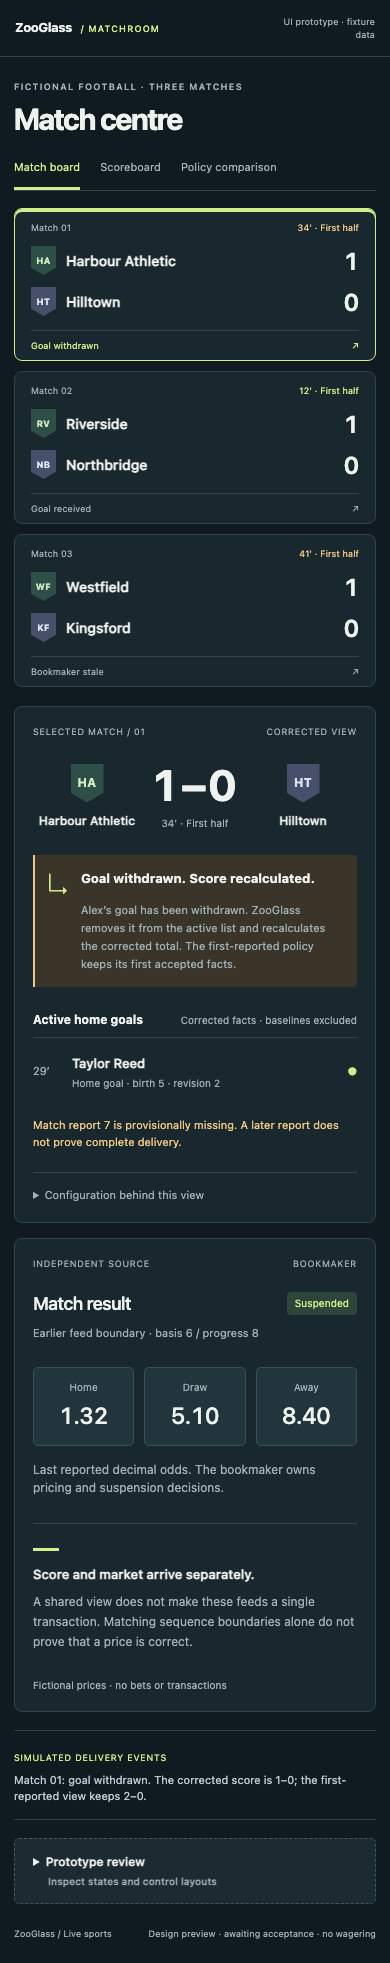
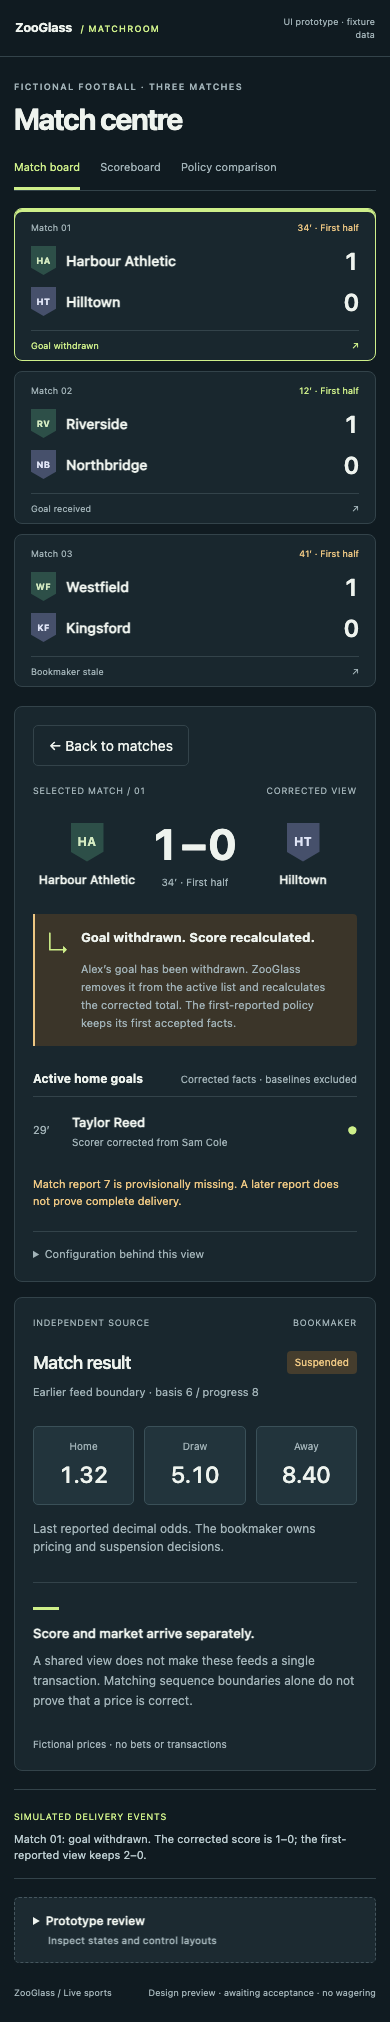
Improve Sports prototype responsive layout and navigation

diff --git a/demos/live-sports/prototype/app.js b/demos/live-sports/prototype/app.js
@@ -46,18 +46,19 @@ function renderMatches() {
 function renderDetail() {
   const data = fixtures[selected.fixture];
   byId("match-detail").innerHTML =
-    `<div class="section-label"><span>Selected match / ${selected.id}</span><span>${disconnected ? "Saved snapshot" : "Corrected view"}</span></div><div class="featured-score"><div>${badge(selected.homeCode)}<h2>${selected.home}</h2></div><div class="score"><strong>${data.score}</strong><span>${data.clock} · ${data.phase}</span></div><div>${badge(selected.awayCode, true)}<h2>${selected.away}</h2></div></div><div class="event-callout ${data.tone}"><span class="callout-marker" aria-hidden="true">↳</span><div><h3>${data.headline}</h3><p>${data.explanation}</p></div></div><div class="goals-heading"><h3>Active home goals</h3><span>Corrected facts · baselines excluded</span></div><ul class="goals">${goalsMarkup(data.goals)}</ul>${data.gap ? `<p class="gap-note">${data.gap} A later report does not prove complete delivery.</p>` : ""}<details class="rules"><summary>Configuration behind this view</summary><dl><dt>Goal list</dt><dd>activeFacts · latestFactRevision</dd><dt>Score</dt><dd>sumActiveFacts · points</dd><dt>Initial score</dt><dd>Both baselines in the matching retained window</dd><dt>View</dt><dd>match-market / match-${Number(selected.id)}</dd></dl><p>Illustrative snapshots only. The UI displays supplied totals; it does not recalculate them.</p></details>`;
+    `<button class="back-to-matches" data-back-to-matches>← Back to matches</button><div class="section-label"><span>Selected match / ${selected.id}</span><span>${disconnected ? "Saved snapshot" : "Corrected view"}</span></div><div class="featured-score"><div>${badge(selected.homeCode)}<h2>${selected.home}</h2></div><div class="score"><strong>${data.score}</strong><span>${data.clock} · ${data.phase}</span></div><div>${badge(selected.awayCode, true)}<h2>${selected.away}</h2></div></div><div class="event-callout ${data.tone}"><span class="callout-marker" aria-hidden="true">↳</span><div><h3>${data.headline}</h3><p>${data.explanation}</p></div></div><div class="goals-heading"><h3>Active home goals</h3><span>Corrected facts · baselines excluded</span></div><ul class="goals">${goalsMarkup(data.goals)}</ul>${data.gap ? `<p class="gap-note">${data.gap} A later report does not prove complete delivery.</p>` : ""}<details class="rules"><summary>Configuration behind this view</summary><dl><dt>Goal list</dt><dd>activeFacts · latestFactRevision</dd><dt>Score</dt><dd>sumActiveFacts · points</dd><dt>Initial score</dt><dd>Both baselines in the matching retained window</dd><dt>View</dt><dd>match-market / match-${Number(selected.id)}</dd></dl>${data.goals.length ? `<h3>Goal publication details</h3><ul>${data.goals.map((goal) => `<li>${goal.scorer}: birth ${goal.birth} · revision ${goal.revision}</li>`).join("")}</ul>` : ""}<p>Illustrative snapshots only. The UI displays supplied totals; it does not recalculate them.</p></details>`;
   byId("market").innerHTML =
-    `<div class="section-label"><span>Independent source</span><span>Bookmaker</span></div><div class="market-title"><h2>Match result</h2><span class="market-state ${data.stale || disconnected ? "stale" : ""}">${disconnected ? "Saved" : data.stale ? "Stale" : data.market}</span></div><p class="market-basis">${data.basis}</p><div class="odds">${["Home", "Draw", "Away"].map((name, index) => `<div><span>${name}</span><strong>${data.odds[index]}</strong></div>`).join("")}</div><p class="market-description">${data.stale ? "Last reported status: open, 42 seconds ago. Silence does not confirm current prices." : data.market === "Awaiting new cycle" ? "Prior-cycle values are withheld from this new-cycle market presentation." : "Last reported decimal odds. The bookmaker owns pricing and suspension decisions."}</p><div class="market-separation"><span class="mini-line"></span><h3>Score and market arrive separately.</h3><p>A shared view does not make these feeds a single transaction. Matching sequence boundaries alone do not prove that a price is correct.</p></div><p class="fictional">Fictional prices · no bets or transactions</p>`;
+    `<div class="section-label"><span>Independent source</span><span>Bookmaker</span></div><div class="market-title"><h2>Match result</h2><span class="market-state ${data.stale || disconnected ? "stale" : data.market === "Suspended" ? "suspended" : data.market === "Open" ? "" : "waiting"}">${disconnected ? "Saved" : data.stale ? "Stale" : data.market}</span></div><p class="market-basis">${data.basis}</p><div class="odds">${["Home", "Draw", "Away"].map((name, index) => `<div><span>${name}</span><strong>${data.odds[index]}</strong></div>`).join("")}</div><p class="market-description">${data.stale ? "Last reported status: open, 42 seconds ago. Silence does not confirm current prices." : data.market === "Awaiting new cycle" ? "Prior-cycle values are withheld from this new-cycle market presentation." : "Last reported decimal odds. The bookmaker owns pricing and suspension decisions."}</p><div class="market-separation"><span class="mini-line"></span><h3>Score and market arrive separately.</h3><p>A shared view does not make these feeds a single transaction. Matching sequence boundaries alone do not prove that a price is correct.</p></div><p class="fictional">Fictional prices · no bets or transactions</p>`;
 }
 
 function renderComparison() {
   const data = fixtures[selected.fixture];
   byId("comparison").innerHTML =
-    `<div class="comparison-heading"><p class="eyebrow">Same publications. Different configured policies.</p><h2>${selected.home} <span>vs</span> ${selected.away}</h2><p>These are separate views of match-${Number(selected.id)}. The first-reported view is a policy comparison, not the current corrected score.</p></div><div class="policy-grid"><article class="policy corrected"><span class="policy-label">Corrected view</span><strong class="policy-score">${data.score}</strong><code>latestFactRevision</code><p>Applies accepted revisions and withdrawals.</p><ul>${data.goals.length ? data.goals.map((goal) => `<li>${goal.scorer} · ${goal.minute}</li>`).join("") : "<li>No active goals in this window</li>"}</ul></article><article class="policy original"><span class="policy-label">First-reported view</span><strong class="policy-score">${data.original}</strong><code>firstFact</code><p>Retains the first accepted create for each fact.</p><ul>${data.originalGoals.length ? data.originalGoals.map((goal) => `<li>${goal}</li>`).join("") : "<li>No active goals in this window</li>"}</ul></article></div><p class="comparison-foot">${data.explanation}</p>${selected.fixture === "transition" ? '<p class="gap-note">Retained windows differ during this failed transition. Current scorelines are withheld; listed facts belong to each view’s own window.</p>' : ""}`;
+    `<button class="back-to-matches" data-back-to-matches>← Back to matches</button><div class="comparison-heading"><p class="eyebrow">Same publications. Different configured policies.</p><h2>${selected.home} <span>vs</span> ${selected.away}</h2><p>These are separate views of match-${Number(selected.id)}. The first-reported view is a policy comparison, not the current corrected score.</p></div><div class="policy-grid"><article class="policy corrected"><span class="policy-label">Corrected view</span><strong class="policy-score">${data.score}</strong><code>latestFactRevision</code><p>Applies accepted revisions and withdrawals.</p><ul>${data.goals.length ? data.goals.map((goal) => `<li>${goal.scorer} · ${goal.minute}</li>`).join("") : "<li>No active goals in this window</li>"}</ul></article><article class="policy original"><span class="policy-label">First-reported view</span><strong class="policy-score">${data.original}</strong><code>firstFact</code><p>Retains the first accepted create for each fact.</p><ul>${data.originalGoals.length ? data.originalGoals.map((goal) => `<li>${goal}</li>`).join("") : "<li>No active goals in this window</li>"}</ul></article></div><p class="comparison-foot">${data.explanation}</p>${selected.fixture === "transition" ? '<p class="gap-note">Retained windows differ during this failed transition. Current scorelines are withheld; listed facts belong to each view’s own window.</p>' : ""}`;
 }
 
 function render() {
+  const focusedMatch = document.activeElement?.dataset.match;
   renderMatches();
   renderDetail();
   renderComparison();
@@ -65,6 +66,18 @@ function render() {
   byId("scoreboard-note").hidden = view !== "scoreboard";
   byId("comparison").hidden = view !== "comparison";
   byId("connection").hidden = !disconnected;
+  for (const id of ["match-detail", "comparison"]) {
+    byId(id).tabIndex = -1;
+    byId(id).setAttribute(
+      "aria-label",
+      `${selected.home} versus ${selected.away} ${id === "comparison" ? "policy comparison" : "details"}`,
+    );
+  }
+  if (focusedMatch) {
+    byId("matches")
+      .querySelector(`[data-match="${focusedMatch}"]`)
+      ?.focus({ preventScroll: true });
+  }
   byId("fixture").value = disconnected ? "disconnected" : selected.fixture;
   document
     .querySelectorAll("[data-view]")
@@ -110,10 +123,16 @@ byId("matches").addEventListener("click", (event) => {
   selected = matches.find((match) => match.id === card.dataset.match);
   render();
   if (matchMedia("(max-width: 650px)").matches && view !== "scoreboard") {
-    byId(
-      view === "comparison" ? "comparison" : "match-detail",
-    ).scrollIntoView();
+    const detail = byId(view === "comparison" ? "comparison" : "match-detail");
+    detail.focus({ preventScroll: true });
+    detail.scrollIntoView();
   }
+});
+document.addEventListener("click", (event) => {
+  if (!event.target.closest("[data-back-to-matches]")) return;
+  const card = byId("matches").querySelector(`[data-match="${selected.id}"]`);
+  card.focus({ preventScroll: true });
+  card.scrollIntoView({ block: "center" });
 });
 document.querySelectorAll("[data-view]").forEach((button) =>
   button.addEventListener("click", () => {

diff --git a/demos/live-sports/prototype/fixtures.js b/demos/live-sports/prototype/fixtures.js
@@ -14,7 +14,9 @@ export const fixtures = {
       {
         minute: "12′",
         scorer: "Alex Vale",
-        detail: "Home goal · birth 4 · revision 1",
+        detail: "Home goal",
+        birth: 4,
+        revision: 1,
       },
     ],
     originalGoals: ["Alex Vale · 12′"],
@@ -38,12 +40,16 @@ export const fixtures = {
       {
         minute: "12′",
         scorer: "Alex Vale",
-        detail: "Home goal · birth 4 · revision 1",
+        detail: "Home goal",
+        birth: 4,
+        revision: 1,
       },
       {
         minute: "29′",
         scorer: "Taylor Reed",
-        detail: "Corrected from Sam · birth 5 · revision 2",
+        detail: "Scorer corrected from Sam Cole",
+        birth: 5,
+        revision: 2,
       },
     ],
     originalGoals: ["Alex Vale · 12′", "Sam Cole · 29′"],
@@ -67,7 +73,9 @@ export const fixtures = {
       {
         minute: "29′",
         scorer: "Taylor Reed",
-        detail: "Home goal · birth 5 · revision 2",
+        detail: "Scorer corrected from Sam Cole",
+        birth: 5,
+        revision: 2,
       },
     ],
     originalGoals: ["Alex Vale · 12′", "Sam Cole · 29′"],
@@ -91,7 +99,9 @@ export const fixtures = {
       {
         minute: "29′",
         scorer: "Taylor Reed",
-        detail: "Home goal · birth 5 · revision 2",
+        detail: "Scorer corrected from Sam Cole",
+        birth: 5,
+        revision: 2,
       },
     ],
     originalGoals: ["Alex Vale · 12′", "Sam Cole · 29′"],

diff --git a/demos/live-sports/prototype/styles.css b/demos/live-sports/prototype/styles.css
@@ -412,7 +412,7 @@ h1 {
 }
 .odds {
   display: grid;
-  grid-template-columns: repeat(3, 1fr);
+  grid-template-columns: repeat(3, minmax(0, 1fr));
   gap: 10px;
   margin: 25px 0 15px;
 }
@@ -854,5 +854,28 @@ footer {
   }
   .scoreboard-note {
     padding: 18px;
+  }
+}
+
+.market-state.suspended {
+  color: var(--amber);
+  background: #453d2d;
+}
+.market-state.waiting {
+  color: var(--muted);
+  background: #22343c;
+}
+.back-to-matches {
+  display: none;
+}
+@media (max-width: 900px) {
+  #board-content {
+    grid-template-columns: minmax(0, 1fr);
+  }
+}
+@media (max-width: 650px) {
+  .back-to-matches {
+    display: inline-block;
+    margin-bottom: 18px;
   }
 }

diff --git a/demos/live-sports/README.md b/demos/live-sports/README.md
@@ -17,7 +17,8 @@ Open `http://<your-LAN-IP>:8048/` on the same network. No build or dependencies.
 
 - **Match board:** three fictional scorelines, selected match facts and a separately
   reported bookmaker market. Selecting a card changes the detail; on narrow
-  screens it scrolls to the selected detail.
+  screens it focuses and scrolls to the selected detail, with **Back to matches**
+  returning focus to the selected card.
 - **Scoreboard:** a score-only presentation with no market or goal detail.
 - **Policy comparison:** corrected and first-reported scores and goal lists side
   by side. Scorer corrections and withdrawals visibly produce different results.
@@ -50,6 +51,27 @@ Checked all three views for horizontal overflow at 360, 390, 768, 1024 and 1440
 pixels. No page errors observed. This is prototype verification, not production
 browser support certification or physical-device sign-off.
 
+## Focused prototype checks
+
+The market stacks below the detail at widths up to 900px, including the former
+651–700px overflow range. Suspended markets use amber; open markets use green.
+Goal lines use domain descriptions; birth/revision identifiers are available in
+**Configuration behind this view**. Selection preserves keyboard focus, and phone
+detail/comparison views provide a return control.
+
+With the Workbench dependencies and Playwright Chromium/WebKit browsers installed,
+run from the repository root:
+
+```sh
+node --test demos/live-sports/prototype.test.mjs
+```
+
+These checks serve static files on loopback and launch the browsers. They do not
+start or build ZooGlass. They cover the interaction regressions and changed display
+states. The corrected prototype was also checked across all fixture/view combinations
+at 11 widths from 360 to 1440px, including breakpoint-adjacent widths, and through
+interactive completion and Reset.
+
 ## Source layout
 
 | File | Purpose |
@@ -57,6 +79,7 @@ browser support certification or physical-device sign-off.
 | `prototype/index.html` | Landmarks, view navigation and review controls |
 | `prototype/styles.css` | Match-board presentation and responsive layouts |
 | `prototype/fixtures.js` | Supplied scores, goal lists and explanatory states |
+| `prototype.test.mjs` | Browser regression checks against a temporary static server |
 | `prototype/app.js` | Renders fixture views and handles prototype interactions |
 
 `index.html` loads CSS and the app module; `app.js` imports fixtures. There is no
